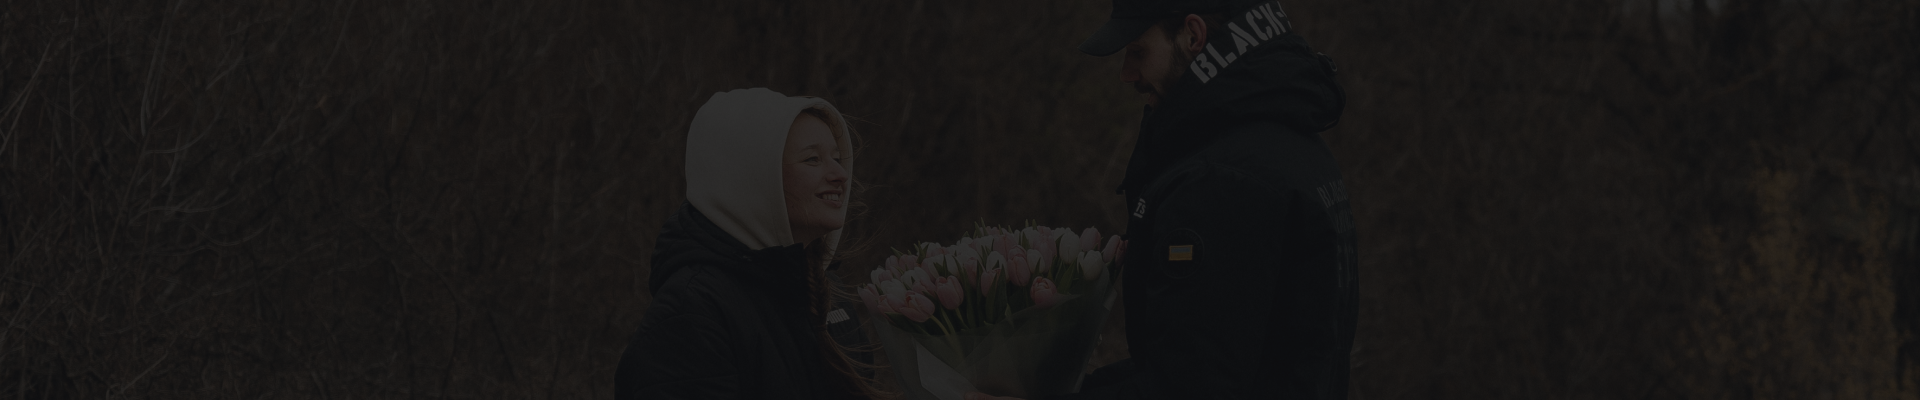
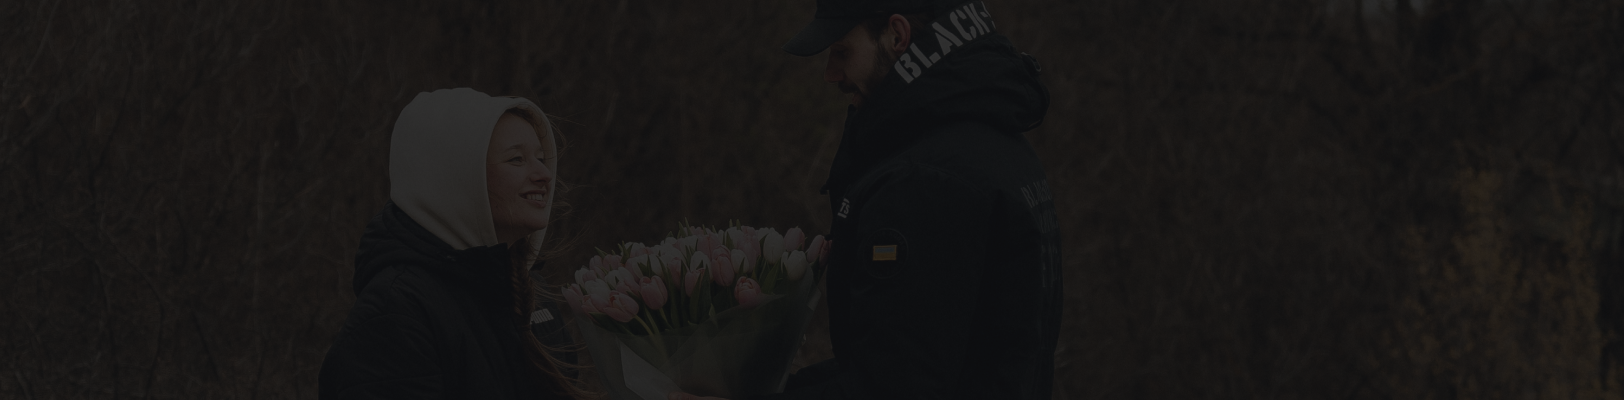
adapt

diff --git a/src/Main/style.js b/src/Main/style.js
@@ -2,7 +2,7 @@ import styled from 'styled-components';
 import back from '../img/footer.png';
 
 export const Back = styled.img`
-  height: fit-content !important;
+  height: 50vw !important;
   width: 100vw;
 `;
 
